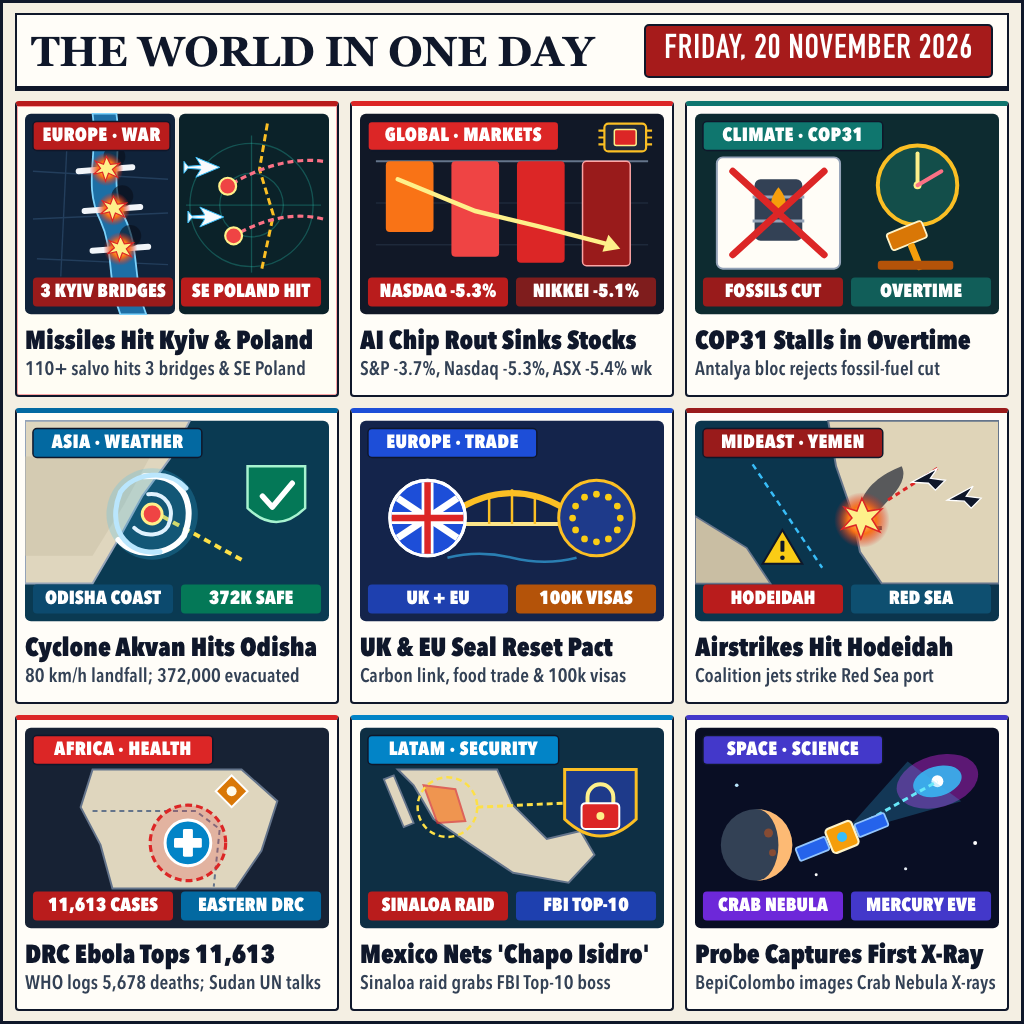
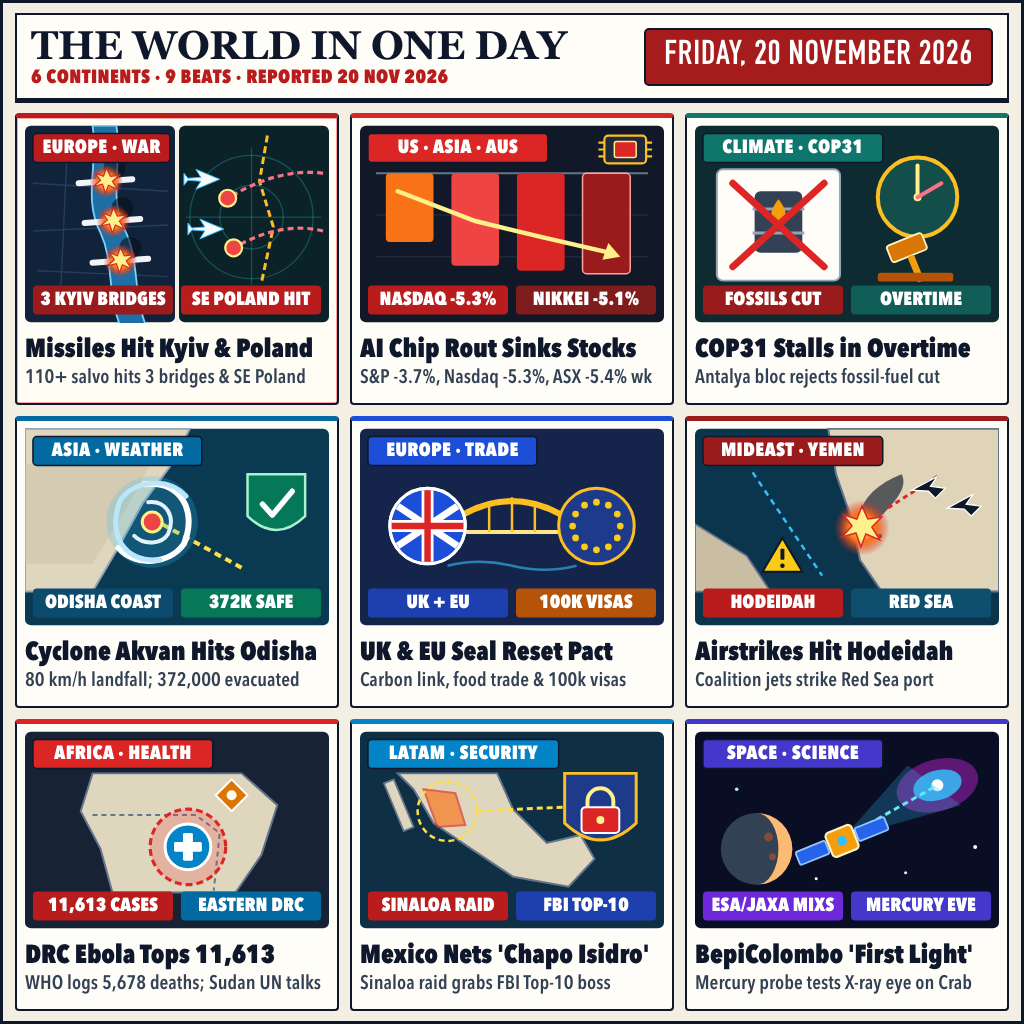
Refine v3 masthead deck, US-Asia-Aus tag, and BepiColombo MIXS first-light wording

Changed region(s): [[0.0, 0.0, 1.0, 0.9688], [0.6875, 0.5, 0.7188, 0.5312]]

diff --git a/main.ts b/main.ts
@@ -75,14 +75,15 @@ function verifyWholePng(buf: Buffer): void {
       const colorType = buf[dataStart + 9];
       const compressionMethod = buf[dataStart + 10];
       const filterMethod = buf[dataStart + 11];
+      const interlaceMethod = buf[dataStart + 12];
       if (width !== TARGET_WIDTH || height !== TARGET_HEIGHT) {
         throw new Error(`Expected ${TARGET_WIDTH}x${TARGET_HEIGHT} PNG, got ${width}x${height}`);
       }
       if (![1, 2, 4, 8, 16].includes(bitDepth) || ![0, 2, 3, 4, 6].includes(colorType)) {
         throw new Error(`Unsupported PNG bitDepth=${bitDepth} colorType=${colorType}`);
       }
-      if (compressionMethod !== 0 || filterMethod !== 0) {
-        throw new Error(`Invalid PNG compression=${compressionMethod} filter=${filterMethod}`);
+      if (compressionMethod !== 0 || filterMethod !== 0 || (interlaceMethod !== 0 && interlaceMethod !== 1)) {
+        throw new Error(`Invalid PNG header flags: comp=${compressionMethod} filter=${filterMethod} interlace=${interlaceMethod}`);
       }
     } else if (type === "IDAT") {
       idatBytes += dataLen;
